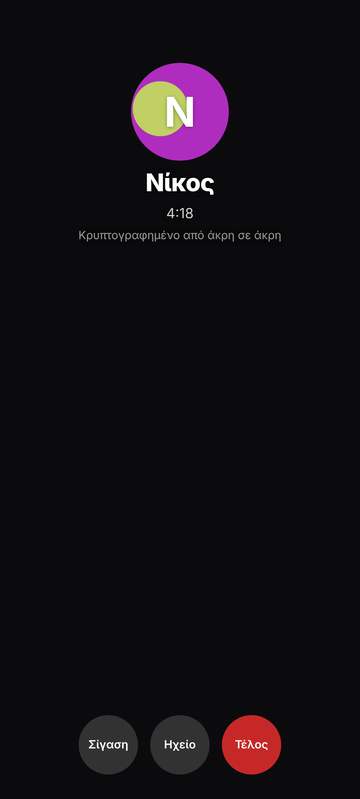
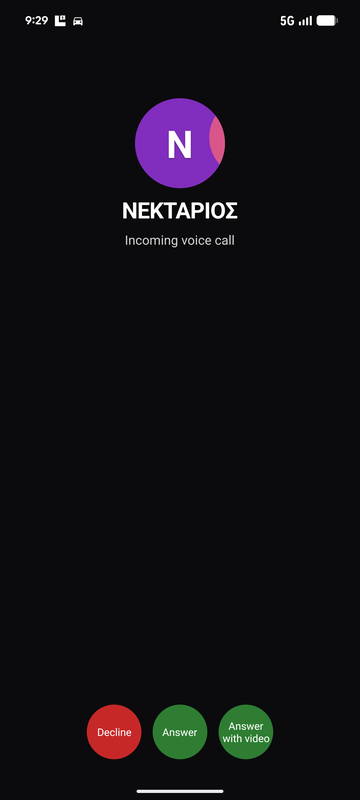
README: new screenshots of the app, in English

diff --git a/README.md b/README.md
@@ -29,16 +29,26 @@ Additional terms under AGPL-3.0 section 7 apply: see AUTHORS.md.
 <table align="center">
   <tr>
     <td><img src="docs/screenshots/chats.png" alt="Chats" width="170"></td>
-    <td><img src="docs/screenshots/chat.png" alt="A chat with a photo" width="170"></td>
-    <td><img src="docs/screenshots/call.png" alt="An encrypted call" width="170"></td>
-    <td><img src="docs/screenshots/nearby.png" alt="Nearby, with no internet" width="170"></td>
-    <td><img src="docs/screenshots/look.png" alt="Looks and colours" width="170"></td>
+    <td><img src="docs/screenshots/qr.png" alt="Add by QR" width="170"></td>
+    <td><img src="docs/screenshots/chat-poll.png" alt="Polls" width="170"></td>
+    <td><img src="docs/screenshots/call.png" alt="Calls" width="170"></td>
+    <td><img src="docs/screenshots/nearby.png" alt="No internet" width="170"></td>
   </tr>
   <tr align="center">
-    <td>Chats</td><td>Photos</td><td>Calls</td><td>No internet</td><td>Looks</td>
+    <td>Chats</td><td>Add by QR</td><td>Polls</td><td>Calls</td><td>No internet</td>
+  </tr>
+  <tr>
+    <td><img src="docs/screenshots/services.png" alt="Services" width="170"></td>
+    <td><img src="docs/screenshots/phone.png" alt="Phone" width="170"></td>
+    <td><img src="docs/screenshots/contacts.png" alt="Contacts" width="170"></td>
+    <td><img src="docs/screenshots/panic.png" alt="Panic button" width="170"></td>
+    <td><img src="docs/screenshots/public-groups.png" alt="Public groups" width="170"></td>
+  </tr>
+  <tr align="center">
+    <td>Services</td><td>Phone</td><td>Contacts</td><td>Panic button</td><td>Public groups</td>
   </tr>
 </table>
-<p align="center"><sub>Screens of the Greek app, with made-up names and numbers.</sub></p>
+<p align="center"><sub>Screens of the app in English. The QR code is an example and leads to this page.</sub></p>
 
 > [!WARNING]
 > **Early work, not audited.** No one outside the project has reviewed the code or the cryptography yet. Use it,
